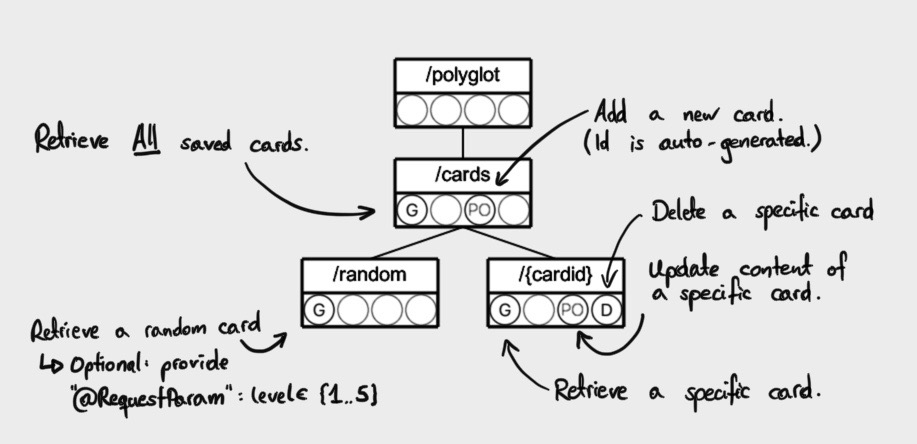
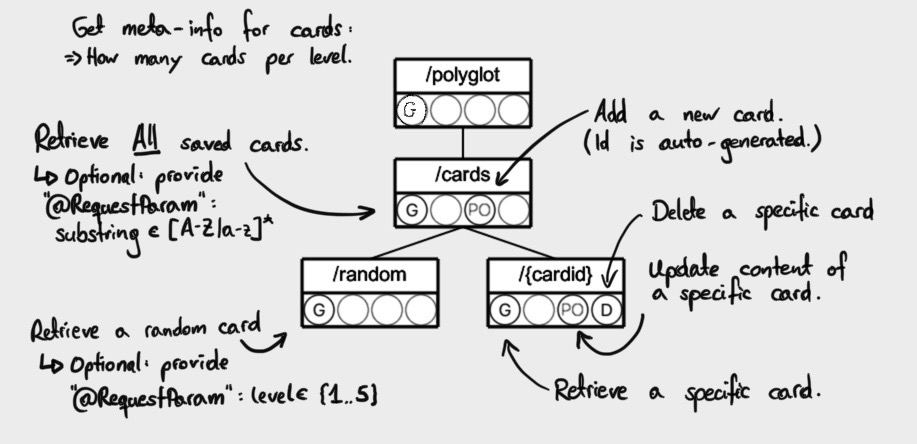
added optional params to RIF tree figure.

Changed region(s): [[0.0305, 0.3514, 0.3053, 0.5856], [0.0611, 0.0293, 0.3969, 0.1757], [0.4275, 0.205, 0.458, 0.2635]]

diff --git a/README.md b/README.md
@@ -30,8 +30,6 @@ RIF tree:
 
 ![rif](documentation/polyglot-rif.png)
 
- * Additionally: **GET** on root node, returns meta info: fill state per level (enabled / disabled for selection)
-
 
 ### JS
 
